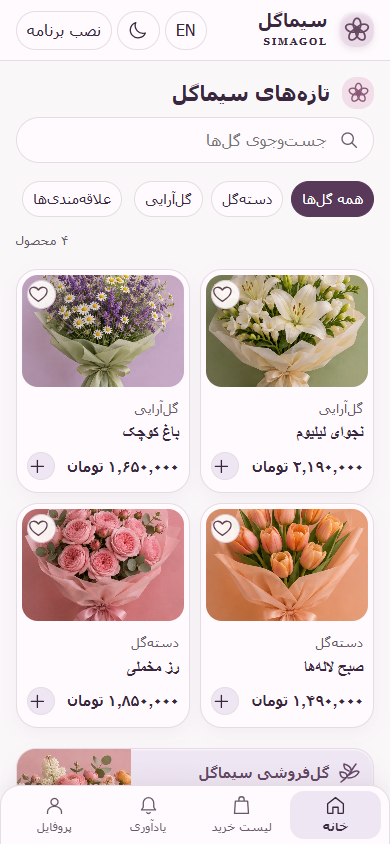
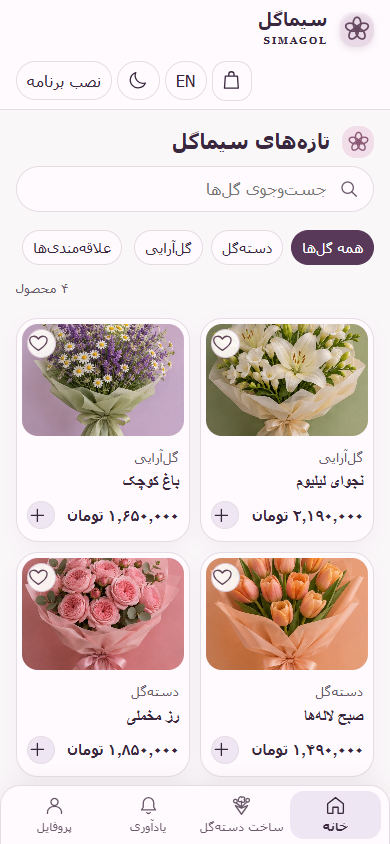
feat: add customer dashboard and upcoming bouquet studio

diff --git a/public/app.js b/public/app.js
@@ -4,7 +4,7 @@ import { setupInstall } from './components/install.js';
 import { renderGreeting } from './components/greeting.js';
 import { renderNavigation } from './components/navigation.js';
 import { collection, product, bagView } from './components/store.js';
-import { account, checkout, checkoutFields, invoice, orderCard, notificationList } from './components/account.js';
+import { account, checkout, checkoutFields, invoice, orderList, notificationList } from './components/account.js';
 import { showHomepage } from './components/home.js';
 import { admin } from './components/admin.js';
 
@@ -55,7 +55,8 @@ function closeView() {
 }
 function activeTab(hash) {
   if (hash==='#bag'||hash==='#checkout') return 'bag';
-  if (hash==='#account'||hash==='#admin'||hash.startsWith('#invoice/')) return 'profile';
+  if (hash==='#bouquet') return 'bouquet';
+  if (hash==='#account'||hash.startsWith('#account/')||hash==='#admin'||hash.startsWith('#invoice/')) return 'profile';
   return 'home';
 }
 function updateTabs() {
@@ -68,7 +69,9 @@ async function route() {
   const tab=activeTab(h);
   updateTabs();
   const page=$('#tab-page');
-  const isPage=h==='#bag'||h==='#account';
+  const profilePage=h==='#account'||h.startsWith('#account/');
+  const isPage=h==='#bag'||profilePage||h==='#bouquet';
+  page.classList.toggle('dashboard-page',profilePage && Boolean(state.me) && !offline);
   const entering=isPage && page.dataset.route!==h;
   page.dataset.route=h;
   $('#home-view').hidden=isPage;
@@ -87,7 +90,8 @@ async function route() {
     if(offline && (tab==='profile'||h==='#checkout')) html='<p>'+label('Connect to shop')+'</p><button class="cta" data-retry>'+label('Retry')+'</button>';
     else if(h==='#bag') html=bagView();
     else if(h==='#checkout'){returnTo='#checkout';html=checkout();}
-    else if(h==='#account'){returnTo='#account';html=await account();}
+    else if(profilePage){returnTo=h;html=await account(...h.split('/').slice(1));}
+    else if(h==='#bouquet') html='<section class="bouquet-teaser"><span class="bouquet-mark">'+icon('bouquet')+'</span><h2>'+label('Bouquet studio')+'</h2><strong>'+label('Coming soon')+'</strong><p>'+label('Bouquet studio description')+'</p><a class="cta" href="/">'+label('Browse flowers')+'</a></section>';
     else if(h==='#admin') html=await admin();
     else if(h.startsWith('#invoice/')) html=invoice(await api('orders/'+encodeURIComponent(h.slice(9))));
     else {
@@ -100,7 +104,7 @@ async function route() {
     content.replaceChildren();
     page.innerHTML=html;
     if (h==='#bag') {
-      page.querySelector('h2').textContent=t('Shopping list');
+      page.querySelector('h2').textContent=t('Shopping bag');
       if (!selectedItems().length) page.insertAdjacentHTML('beforeend','<p><a class="cta" href="/">'+label('Browse flowers')+'</a></p>');
     }
     if (entering) page.focus();
@@ -147,8 +151,13 @@ async function act(b) {
   if (b.dataset.readNotices) {
     await api('notifications/read','POST',{through:Number(b.dataset.readNotices)});
     const notices=await api('notifications');
-    if(location.hash==='#account' && $('#notices')) $('#notices').innerHTML=notificationList(notices);
+    if($('#notices')) $('#notices').innerHTML=notificationList(notices);
     return;
+  }
+  if (b.hasAttribute('data-delete-address')) {
+    if (!confirm(t('Delete address?'))) return;
+    const addresses=state.me.addresses.filter((_,i)=>i!==Number(b.dataset.deleteAddress));
+    await api('profile','POST',{addresses});await refresh();await route();return;
   }
   if(b.dataset.filter){state.category=b.dataset.filter;collection();return;}
   if(b.dataset.fav){
@@ -207,7 +216,14 @@ async function submit(form) {
     await api(k.toLowerCase(),'POST',data);
     await refresh();if(location.hash!==returnTo)location.hash=returnTo;
   } else if(k==='profile'){
-    await api('profile','POST',{name:data.name,addresses:data.addresses.split('\n').map(s=>s.trim()).filter(Boolean)});
+    await api('profile','POST',{name:data.name});
+    await refresh();
+  } else if(k==='address'){
+    const addresses=[...state.me.addresses];
+    const index=Number(data.index);
+    if(index===-1) addresses.push(data.address.trim());
+    else addresses[index]=data.address.trim();
+    await api('profile','POST',{addresses});
     await refresh();
   } else if(k==='checkout'){
     if(!form.reportValidity())return;
@@ -248,12 +264,18 @@ document.addEventListener('submit',async e=>{
   finally {button.disabled=false;}
 });
 setInterval(async()=>{
-  if(document.hidden||!state.me||location.hash!=='#account'||!$('#history'))return;
+  const path=location.hash;
+  if(document.hidden||!state.me)return;
+  const history=$('#history'), notices=$('#notices');
   try {
-    const [rows,notices]=await Promise.all([api('orders'),api('notifications')]);
-    if(location.hash==='#account' && $('#notices')) $('#notices').innerHTML=notificationList(notices);
-    if(location.hash==='#account'&&$('#history'))$('#history').innerHTML=rows.map(o=>orderCard(o)).join('')||label('No orders yet');
-  }catch{ /* Keep the last known order history until the next successful read. */ }
+    if(history) {
+      const rows=await api('orders');
+      if(location.hash===path && history.isConnected) history.innerHTML=orderList(rows,path.split('/')[2]);
+    } else if(notices) {
+      const items=await api('notifications');
+      if(location.hash===path && notices.isConnected) notices.innerHTML=notificationList(items);
+    }
+  }catch{ /* Keep the last successful update. */ }
 },15000);
 async function boot() {
   if(!['/','/index.html'].includes(location.pathname) && !location.hash)history.replaceState(null,'','/#missing');

diff --git a/public/components/account.js b/public/components/account.js
@@ -1,4 +1,5 @@
 import {state,esc,t,label,price,field,button,select,selectedItems,api,num} from './ui.js';
+import {icon} from './icons.js';
 export function auth() {
   return '<h2>'+label('Account')+'</h2>'+['Login','Register'].map(k=>'<details '+(k==='Login'?'open':'')+'><summary>'+label(k)+'</summary><form data-form="'+k+'">'+
     (k==='Register'?field('name','Name'):'')+field('email','Email','','email')+field('password','Password','','password')+'<small>'+label('Use at least 12 characters')+'</small>'+button(k)+'</form></details>').join('');
@@ -44,13 +45,52 @@ export function notificationList(notices) {
     label('Mark all as read')+'</button>' : '';
   return '<ul>'+entries.join('')+'</ul>'+action;
 }
-export async function account() {
+const sections = [
+  ['personal','Personal details','profile'], ['orders','My orders','orders'],
+  ['addresses','My addresses','pin'], ['favorites','Favorites','heart'], ['notifications','Notifications','bell']
+];
+const statuses=['placed','preparing','shipped','delivered','cancelled'];
+
+function personalPanel() {
+  const {name,email}=state.me;
+  return '<dl class="profile-fields"><div><dt>'+label('Name')+'</dt><dd>'+esc(name)+'</dd></div><div><dt>'+label('Email')+'</dt><dd><bdi>'+esc(email)+'</bdi></dd></div></dl>'+
+    '<details><summary>'+label('Edit details')+'</summary><form data-form="profile">'+field('name','Name',name)+button('Save')+'</form></details>';
+}
+function addressForm(index,value) {
+  return '<form data-form="address"><input type="hidden" name="index" value="'+index+'"><label>'+label('Delivery address')+
+    '<textarea name="address" maxlength="500" required>'+esc(value)+'</textarea></label>'+button('Save')+'</form>';
+}
+function addressPanel() {
+  const addresses=state.me.addresses;
+  return (addresses.map((value,i)=>'<article class="address-card"><p>'+icon('pin')+esc(value)+'</p><details><summary>'+label('Edit')+'</summary>'+
+    addressForm(i,value)+'</details><button type="button" data-delete-address="'+i+'">'+label('Remove')+'</button></article>').join('')||'<p>'+label('No saved addresses')+'</p>')+
+    '<details><summary>'+label('Add address')+'</summary>'+addressForm(-1,'')+'</details>';
+}
+export function orderList(rows,filter) {
+  const filtered=statuses.includes(filter)?rows.filter(o=>o.status===filter):rows;
+  return filtered.map(o=>orderCard(o)).join('')||'<p class="profile-empty">'+icon('orders')+label('No matching orders')+'</p>';
+}
+function orderPanel(rows,filter) {
+  const chips=['all',...statuses].map(s=>'<a class="chip" '+(filter===s?'aria-current="true" ':'')+'href="#account/orders/'+s+'">'+label(s==='all'?'All orders':s)+'</a>').join('');
+  return '<nav class="order-filters" aria-label="'+label('My orders')+'">'+chips+'</nav><section id="history">'+orderList(rows,filter)+'</section>';
+}
+function savedFlowers() {
+  const products=state.catalog.products.filter(p=>state.favorites.includes(p.id));
+  return products.map(p=>'<a class="saved-flower" href="#product/'+esc(p.id)+'"><img src="/'+esc(p.image)+'" alt=""><span>'+esc(p.name[state.lang])+'</span><b>'+esc(price(p.priceIrr))+'</b></a>').join('') || '<p>'+label('No saved flowers')+'</p><a href="/">'+label('Browse flowers')+'</a>';
+}
+export async function account(section='personal',filter='all') {
   if(!state.me) return auth();
-  const [orders,notices]=await Promise.all([api('orders'),api('notifications')]);
-  return '<h2>'+label('Account')+'</h2><p>'+esc(state.me.email)+'</p><form data-form="profile">'+field('name','Name',state.me.name)+
-    '<label>'+label('Saved addresses, one per line')+'<textarea name="addresses">'+esc(state.me.addresses.join('\n'))+'</textarea></label>'+button('Save')+'</form>'+
-    '<h3>'+label('Notifications')+'</h3><section id="notices">'+notificationList(notices)+'</section>'+
-    '<h3>'+label('Order updates')+'</h3><section id="history">'+(orders.map(o=>orderCard(o)).join('')||label('No orders yet'))+'</section><button data-logout>'+label('Log out')+'</button>';
+  const current=sections.find(([key])=>key===section)||sections[0];
+  let panel;
+  if(current[0]==='orders') panel=orderPanel(await api('orders'),statuses.includes(filter)?filter:'all');
+  else if(current[0]==='notifications') panel='<section id="notices">'+notificationList(await api('notifications'))+'</section>';
+  else if(current[0]==='addresses') panel=addressPanel();
+  else if(current[0]==='favorites') panel=savedFlowers();
+  else panel=personalPanel();
+  const links=sections.map(([key,title,glyph])=>'<a '+(key===current[0]?'aria-current="page" ':'')+'href="#account/'+key+'">'+icon(glyph)+label(title)+'</a>').join('');
+  return '<div class="profile-dashboard"><aside class="profile-menu"><div class="customer-id">'+icon('profile')+'<strong>'+esc(state.me.name)+'</strong></div>'+
+    '<nav aria-label="'+label('Account')+'">'+links+'</nav><button data-logout>'+label('Log out')+'</button></aside>'+
+    '<section class="profile-content"><h2>'+label(current[1])+'</h2>'+panel+'</section></div>';
 }
 export function invoice(o) {
   return '<div class="invoice"><h2>'+label('Invoice')+' · SimaGol</h2><p><bdi>'+esc(o.id)+'</bdi> · '+label(o.status)+'</p><p>'+esc(o.recipient)+' · '+esc(o.address)+'</p>'+

diff --git a/public/shop.css b/public/shop.css
@@ -962,4 +962,41 @@ body { padding-bottom: calc(86px + env(safe-area-inset-bottom)); }
   .header-wrap nav { width: auto; order: initial; }
   .search input, #tab-page input { font-size: 1rem; }
 }
+.header-cart {
+  display: grid; position: relative; place-items: center; min-width: 40px; min-height: 40px;
+  border: 1px solid var(--line); border-radius: 14px; background: var(--surface);
+}
+.header-cart sup { position: absolute; inset-inline-end: -4px; top: -5px; font-size: 11px; line-height: 17px; min-width: 17px; text-align: center; border-radius: 15px; background: var(--accent); color: white; }
+#tab-page.dashboard-page { max-width: none; background: transparent; border: 0; box-shadow: none; padding: 0; }
+.profile-dashboard { display: grid; grid-template-columns: minmax(190px, 230px) minmax(0, 1fr); gap: 18px; align-items: start; }
+.profile-menu, .profile-content { border: 1px solid var(--line); border-radius: 19px; background: var(--surface); box-shadow: var(--shadow); padding: 16px; min-width: 0; }
+.customer-id { display: flex; align-items: center; gap: 10px; padding: 8px 4px 16px; overflow-wrap: anywhere; border-bottom: 1px solid var(--line); }
+.customer-id svg, .bouquet-mark { color: var(--plum); background: var(--hero); border-radius: 12px; }
+.customer-id svg { width: 39px; height: 39px; padding: 9px; }
+.profile-menu nav { display: grid; gap: 3px; margin-block: 10px; width: auto; }
+.profile-menu a { display: flex; gap: 9px; border-radius: 11px; padding: 8px; min-height: 40px; font-size: .88rem; }
+.profile-menu a[aria-current], .order-filters [aria-current] { background: var(--hero); color: var(--text); font-weight: bold; }
+.profile-menu button { font-size: .84rem; }
+.profile-fields { display: grid; grid-template-columns: repeat(auto-fit,minmax(min(100%,180px),1fr)); gap: 10px; }
+.profile-fields div, .address-card, .saved-flower { padding: 12px; border-radius: 13px; background: var(--bg); border: 1px solid var(--line); }
+.profile-fields dt { font-size: .82rem; color: var(--muted); }
+.profile-fields dd { margin: .3rem 0 0; overflow-wrap: anywhere; }
+.address-card, .saved-flower { margin-block: 8px; }
+.address-card p, .saved-flower { display: flex; align-items: center; gap: 10px; overflow-wrap: anywhere; }
+.saved-flower img { width: 52px; height: 52px; border-radius: 10px; object-fit: cover; }
+.saved-flower b { margin-inline-start: auto; font-size: .85rem; }
+.order-filters { display: flex; flex-wrap: wrap; gap: 5px; width: auto; }
+.profile-empty, .bouquet-teaser { text-align: center; padding: 24px 10px; }
+.profile-empty svg { margin: 0 auto 12px; width: 32px; height: 32px; color: var(--muted); }
+.bouquet-mark { display: inline-grid; place-items: center; width: 70px; height: 70px; margin-bottom: 14px; border-radius: 24px; box-shadow: var(--shadow); }
+.bouquet-mark svg { width: 42px; height: 42px; }
+.bouquet-teaser p { max-width: 32ch; margin: 10px auto 20px; color: var(--muted); }
+@media (max-width: 680px) {
+  .profile-dashboard { grid-template-columns: 1fr; gap: 10px; }
+  .profile-menu nav { grid-template-columns: repeat(3,minmax(0,1fr)); }
+  .profile-menu a { flex-direction: column; justify-content: center; gap: 4px; padding: 5px; font-size: .78rem; }
+  .profile-menu { position: relative; padding: 10px; }
+  .customer-id { padding: 0 0 8px; padding-inline-end: 76px; }
+  .profile-menu [data-logout] { position: absolute; inset-inline-end: 10px; top: 13px; }
+}
 @media print { .app-tabs { display: none; } body { padding: 0; } }

diff --git a/public/components/icons.js b/public/components/icons.js
@@ -1,5 +1,8 @@
 const shapes={flower:'<g fill="none"><ellipse cy="7" cx="12" rx="3.2" ry="5"/><ellipse cy="7" cx="12" rx="3.2" ry="5" transform="rotate(72 12 12)"/><ellipse cy="7" cx="12" rx="3.2" ry="5" transform="rotate(144 12 12)"/><ellipse cy="7" cx="12" rx="3.2" ry="5" transform="rotate(216 12 12)"/><ellipse cy="7" cx="12" rx="3.2" ry="5" transform="rotate(288 12 12)"/></g><circle cx="12" cy="12" r="2.4" fill="currentColor"/>',bag:'<path d="M5 7h14l1 14H4L5 7Zm4 0V5a3 3 0 0 1 6 0v2"/>',sprig:'<path d="M4 21C13 15 14 9 19 3M8 17C3 17 3 12 3 11q7 0 7 4m2-5q-6-2-5-7 7 2 7 6m-2 5q7-6 10-3-3 6-11 6"/>',search:'<circle cx="10" cy="10" r="6.5"/><path d="m15 15 5 5"/>',heart:'<path d="M12 20S2 14 2 8.5C2 3 9 2 12 7c3-5 10-4 10 1.5C22 14 12 20 12 20Z"/>',plus:'<path d="M12 5v14M5 12h14"/>',close:'<path d="m6 6 12 12M18 6 6 18"/>',moon:'<path d="M20 15A9 9 0 0 1 9 3a9 9 0 1 0 11 12Z"/>',sun:'<circle cx="12" cy="12" r="4"/><path d="M12 1v3m0 16v3M1 12h3m16 0h3M4 4l2 2m12 12 2 2M4 20l2-2M18 6l2-2"/>'};
 Object.assign(shapes, {
+  bouquet:'<path d="m5 12 7 10 7-10-7 3zM12 15V8m-1 5L6 9m7 4 5-5"/><path d="M9 4c0-2 3-3 3-1 2-2 5 0 3 2 2 3-2 5-3 2-3 2-5-1-3-3z"/><circle cx="5" cy="7" r="2"/><circle cx="19" cy="6" r="2"/>',
+  pin:'<path d="M19 10c0 5-7 11-7 11S5 15 5 10a7 7 0 1 1 14 0Z"/><circle cx="12" cy="10" r="2.3"/>',
+  orders:'<path d="m3 7 9-4 9 4-9 5zM3 7v10l9 5 9-5V7m-9 5v10"/>',
   home:'<path d="m3 10 9-7 9 7v10a1 1 0 0 1-1 1h-5v-7H9v7H4a1 1 0 0 1-1-1z"/>',
   bell:'<path d="M4 17h16l-2-3V9a6 6 0 0 0-12 0v5zM10 20a2.3 2.3 0 0 0 4 0"/>',
   profile:'<circle cx="12" cy="8" r="4"/><path d="M4 21v-2a8 6 0 0 1 16 0v2"/>'

diff --git a/public/components/navigation.js b/public/components/navigation.js
@@ -2,12 +2,15 @@ import {icon} from './icons.js';
 
 const tabs = [
   ['home', '/', 'خانه', 'Home'],
-  ['bag', '/#bag', 'لیست خرید', 'Shopping list'],
+  ['bouquet', '/#bouquet', 'ساخت دستهگل', 'Bouquet studio'],
   ['bell', '/planner/', 'یادآوری', 'Reminders'],
   ['profile', '/#account', 'پروفایل', 'Profile'],
 ];
 
 export function renderNavigation(active, lang, quantity = 0) {
+  const cart = document.querySelector('.header-cart');
+  cart.innerHTML = icon('bag') + (quantity ? '<sup>'+new Intl.NumberFormat(lang).format(quantity)+'</sup>' : '');
+  cart.setAttribute('aria-label',(lang==='fa'?'سبد خرید':'Shopping bag')+' ('+new Intl.NumberFormat(lang).format(quantity)+')');
   const bar = document.querySelector('.app-tabs');
   const fa = lang === 'fa';
   bar.setAttribute('aria-label', fa ? 'بخشهای برنامه' : 'App navigation');
@@ -21,9 +24,7 @@ export function renderNavigation(active, lang, quantity = 0) {
       bar.append(link);
     }
     link.lastElementChild.textContent = fa ? persian : english;
-    if (key === 'bag' && quantity > 0) {
-      link.lastElementChild.append(' ('+new Intl.NumberFormat(lang).format(quantity)+')');
-    }
+    // Only the four primary destinations participate in tab selection.
     if (active === key) link.setAttribute('aria-current','page');
     else link.removeAttribute('aria-current');
   }

diff --git a/public/index.html b/public/index.html
@@ -38,7 +38,7 @@
 <header><div class="header-wrap">
 <a class="brand" href="/"><img id="logo" hidden alt="" width="42" height="42"><span class="seal" data-icon="flower"></span><span><strong data-t="brand"></strong><small lang="en">SIMAGOL</small></span></a>
 <a href="#admin" id="staff-link" hidden data-t="Staff"></a>
-<div class="utilities"><button id="language"></button><button id="theme" class="icon"></button><button id="install-app" data-t="Install app" hidden></button></div>
+<div class="utilities"><a class="header-cart" href="#bag" aria-label="سبد خرید"></a><button id="language"></button><button id="theme" class="icon"></button><button id="install-app" data-t="Install app" hidden></button></div>
 </div></header>
 <main>
 <div id="home-view"><section class="hero"><div class="hero-copy"><div class="signature"><span data-icon="sprig"></span><span data-t="eyebrow"></span></div><h1><span data-t="hero1"></span> <em data-t="hero2"></em></h1><p data-t="intro"></p><span id="hero-mascot"></span></div>

diff --git a/public/planner/index.html b/public/planner/index.html
@@ -43,7 +43,7 @@
   <header><div class="header-wrap">
     <a class="brand" href="/"><span class="seal" aria-hidden="true">✿</span><span><strong data-label="brand"></strong><small lang="en">SIMAGOL</small></span></a>
 
-    <div class="utilities"><button id="language" type="button"></button><button id="theme" type="button"></button></div>
+    <div class="utilities"><a class="header-cart" href="/#bag" aria-label="سبد خرید"></a><button id="language" type="button"></button><button id="theme" type="button"></button></div>
   </div></header>
   <main>
     <section class="planner-intro"><div><h1 data-label="title"></h1><p data-label="subtitle"></p><button id="new" class="cta" data-label="add"></button></div><img src="/images/meadow.jpg" alt="" width="512" height="512"></section>

diff --git a/tests/storefront.test.js b/tests/storefront.test.js
@@ -78,9 +78,11 @@ test('account history links to its invoice, and invoice renders purchased item s
     assert.equal(url,'/api/orders'); return {ok:true,json:async()=>[order]};
   });
   state.me=buyer; state.lang='en';
-  const history=await account();
+  const history=await account('orders');
   assert(history.includes('href="#invoice/'+order.id+'"'));
-  assert(history.includes('data-read-notices="1"'));
+  assert((await account('notifications')).includes('data-read-notices="1"'));
+  assert((await account('orders','cancelled')).includes(t('No matching orders')));
+  assert((await account('addresses')).includes('Tehran'));
   const receipt=invoice(order);
   assert(receipt.includes('Snapshot rose') && receipt.includes('Street A') && receipt.includes(price(1040)));
 });

diff --git a/public/planner/app.js b/public/planner/app.js
@@ -149,7 +149,9 @@ function displayDate(date) {
   [year,month]=date.split('-').map(Number);
 }
 function appearance() {
-  renderNavigation('bell', lang);
+  let quantity=0;
+  try { quantity=Object.values(JSON.parse(localStorage.getItem('simagol.bag'))||{}).filter(Number.isInteger).reduce((a,b)=>a+b,0); } catch {}
+  renderNavigation('bell', lang, quantity);
   renderGreeting($('.brand small'), customerName, lang);
   document.documentElement.lang=lang;
   document.documentElement.dir=lang==='fa'?'rtl':'ltr';

diff --git a/scripts/build.js b/scripts/build.js
@@ -20,7 +20,7 @@ for(const path of files(staging)){
 }
 const version=digest.digest('hex').slice(0,16);
 const worker=join(staging,'public','planner','sw.js');
-writeFileSync(worker,readFileSync(worker,'utf8').replace('simagol-planner-shell-v2','simagol-planner-'+version));
+writeFileSync(worker,readFileSync(worker,'utf8').replace('simagol-planner-shell-v3','simagol-planner-'+version));
 const release=join(releaseRoot,'simagol-'+version);
 if(!existsSync(release)) renameSync(staging,release);
 else {

diff --git a/public/planner/sw.js b/public/planner/sw.js
@@ -1,5 +1,5 @@
 // Bump this version when changing an asset in a source deployment.
-const cacheName = 'simagol-planner-shell-v2';
+const cacheName = 'simagol-planner-shell-v3';
 const shell = '/planner/';
 const assets = [
   shell, '/planner/index.html', '/planner/manifest.json', '/planner/planner.css',

diff --git a/README.md b/README.md
@@ -19,7 +19,7 @@ The working domain is `simagol.com`. Develop against `localhost` and select the 
 
 ## SimaGol PWA
 
-The installed app opens on Home with the newest catalog additions first. The bottom tabs open Home, the shopping list (cart), occasion reminders, and the customer profile. After an online visit the offline shell can display the last viewed public catalog and locally saved dates. Checkout and account data require a connection. [Mobile installation and verification](docs/planner.md)
+The installed app opens on Home with the newest catalog additions first. The bottom tabs open Home, the upcoming bouquet studio, occasion reminders, and the customer profile. The header bag opens the cart. Signed-in customers can switch between personal details, order status filters, saved addresses, favorites and notifications. After an online visit the offline shell can display the last viewed public catalog and locally saved dates. Checkout and account data require a connection. [Mobile installation and verification](docs/planner.md)
 
 [Preview the Persian mobile home screen](docs/mobile-home.png)
 
